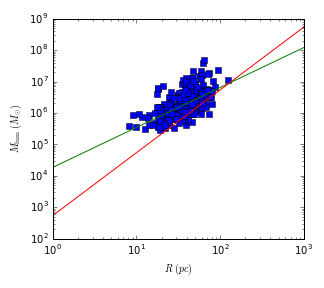
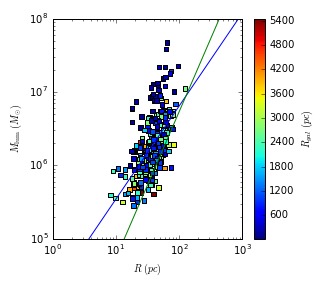
new catalog

diff --git a/m83plots.py b/m83plots.py
@@ -7,44 +7,64 @@
 import astropy
 import astropy.table
 import numpy as np
-#import some libraries
-from astropy.table import Table
+from astropy.table import Table, Column
 import matplotlib.pyplot as plt
+from galaxies import Galaxy
+import astropy.units as u
+
+mygalaxy=Galaxy("M83")
 
 #load the file
 mytable=Table.read('/home/pafreema/Documents/m83.co10.K_props_cprops.fits')
 #note that matplotlib understands LaTeX math in the code m
 
+rgal=mygalaxy.radius(ra=(mytable['XPOS']), dec=(mytable['YPOS']))
+colrgal=Column(name='RADIUS_PC',data=(rgal))
+mytable.add_column(colrgal)
+
 idx = np.where(np.isfinite(mytable['VIRMASS_EXTRAP_DECONV'])) #removes values that are infinite/NaN
+
 m,b=np.polyfit(np.log(mytable['MASS_EXTRAP'][idx]),np.log(mytable['VIRMASS_EXTRAP_DECONV'][idx]),1)
 figure=plt.figure(figsize=(4.5,4)) #figure size in inches
-plt.loglog(mytable['MASS_EXTRAP'],mytable['VIRMASS_EXTRAP_DECONV'],marker='s',linestyle='None')
-test_mass = np.logspace(5,8,100)
+plt.scatter(mytable['MASS_EXTRAP'],mytable['VIRMASS_EXTRAP_DECONV'], c=mytable['RADIUS_PC'], marker='s')
+test_mass = np.logspace(5,9,100)
 plt.plot(test_mass,np.exp(m*np.log(test_mass)+b)) #fit line for m83
 plt.plot(test_mass,test_mass,alpha=0.5,linewidth=2) #fitted x=y
 plt.xlabel(r'$M_{\mathrm{lum}}\ (M_{\odot})$')
 plt.ylabel(r'$M_{\mathrm{vir}}\ (M_{\odot})$')
+plt.axis([10e4, 10e7, 10e3, 10e8])
+plt.colorbar(label='$R_{gal}\ (pc)$')
+plt.xscale('log')
+plt.yscale('log')
 plt.tight_layout()
 plt.savefig('MlumMvir_matplotlib.png')
 
 n,c=np.polyfit(np.log(mytable['RADRMS_EXTRAP_DECONV'][idx]),np.log(mytable['VRMS_EXTRAP_DECONV'][idx]),1)
 figure=plt.figure(figsize=(4.5,4)) #figure size in inches
-plt.loglog(mytable['RADRMS_EXTRAP_DECONV'],mytable['VRMS_EXTRAP_DECONV'],marker='s',linestyle='None')
+plt.scatter(mytable['RADRMS_EXTRAP_DECONV'],mytable['VRMS_EXTRAP_DECONV'], c=mytable['RADIUS_PC'], marker='s')
 test_radius=np.logspace(0,3,100)
 plt.plot(test_radius, np.exp(n*np.log(test_radius)+c)) #fit line for m83
 plt.plot(test_radius, ((np.pi**0.5/3.4)**0.5)*(test_radius**0.5)) #fit line from Solomon et al.- using effective radius
 plt.xlabel(r'$R\ (pc)$')
 plt.ylabel(r'${\sigma}\  (km\ s^{-1})$')
+plt.axis([1,10e2, 10e-2, 10e1])
+plt.colorbar(label='$R_{gal}\ (pc)$')
+plt.xscale('log')
+plt.yscale('log')
 plt.tight_layout()
 plt.savefig('Rlinewidth_matplotlib.png')
 
 p,d=np.polyfit(np.log(mytable['RADRMS_EXTRAP_DECONV'][idx]),np.log(mytable['MASS_EXTRAP'][idx]),1)
 figure=plt.figure(figsize=(4.5,4)) #figure size in inches
-plt.loglog(mytable['RADRMS_EXTRAP_DECONV'],mytable['MASS_EXTRAP'],marker='s',linestyle='None')
+plt.scatter(mytable['RADRMS_EXTRAP_DECONV'],mytable['MASS_EXTRAP'],c=mytable['RADIUS_PC'], marker='s')
 test_mr=np.logspace(0,3,100)
 plt.plot(test_mr,np.exp(p*np.log(test_mr)+d)) #fit line for m83
 plt.plot(test_mr, (540*test_mr**(2))) #fit line from Solomon et al. - using effective radius
 plt.ylabel(r'$M_{\mathrm{lum}}\ (M_{\odot})$')
 plt.xlabel(r'$R\ (pc)$')
+plt.axis([1, 10e2, 10e4, 10e7])
+plt.colorbar(label='$R_{gal}\ (pc)$')
+plt.xscale('log')
+plt.yscale('log')
 plt.tight_layout()
 plt.savefig('MassRadius_matplotlib.png')

diff --git a/m83plots2.py b/m83plots2.py
@@ -17,17 +17,17 @@ mytable=Table.read('/home/pafreema/Documents/m83.co10.K_props_cprops.fits')
 idx = np.where(np.isfinite(mytable['VIRMASS_EXTRAP_DECONV'])) #removes values that are infinite/NaN
 
 rgal=mygalaxy.radius(ra=(mytable['XPOS'][idx]), dec=(mytable['YPOS'][idx]))
-print rgal #get radii in parsecs
+#print rgal #get radii in parsecs
 
 sigma=(mytable['VRMS_EXTRAP_DECONV'][idx])/np.sqrt((mytable['RADRMS_EXTRAP_DECONV'][idx])**2) #sigma naught
 dens=(mytable['MASS_EXTRAP'][idx])/(np.pi*((mytable['RADRMS_EXTRAP_DECONV'][idx])**2)) #mass density
 
-m,b=np.polyfit(dens,sigma,1)
-x=np.linspace(0,20000,100)
+m,b=np.polyfit(np.log(dens),np.log(sigma),1)
+x=np.linspace(10,10e3,100)
 figure=plt.figure(figsize=(4.5,4))
-plt.plot (dens, sigma, marker='s', linestyle='None')
-plt.plot(x, m*x+b)
-plt.xlabel(r'${\Sigma}(M)\ (M_{\odot}/pc^2)$')
+plt.loglog(dens, sigma, marker='s', linestyle='None')
+plt.loglog(x, np.exp(m*np.log(x)+b))
+plt.xlabel(r'${\Sigma}M\ (M_{\odot}/pc^2)$')
 plt.ylabel(r'${\sigma}_0\ $')
 plt.tight_layout()
 plt.savefig('massdensity_matplotlib.png')
